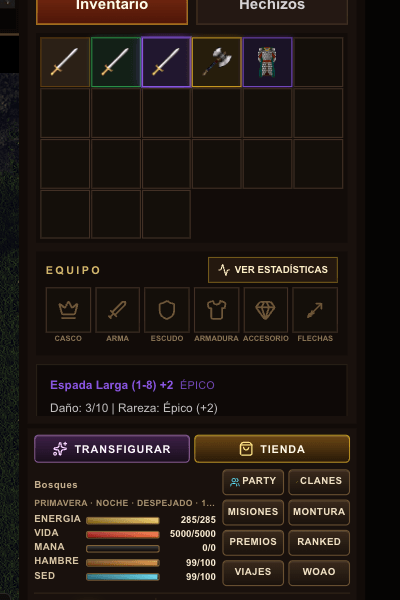
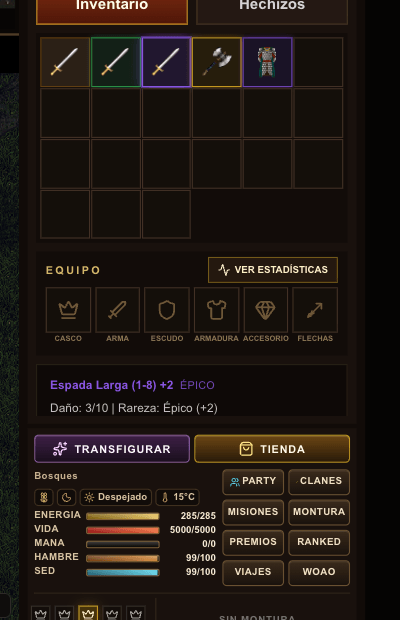
Panel: clima en una sola fila para no achicar el detalle del ítem
Los chips en dos filas hacían crecer la columna y, como el panel tiene alto
fijo, el detalle del ítem perdía su segunda línea (daño y rareza). Ahora van
en una fila: estación y momento del día con ícono (el nombre en el título y
para lectores de pantalla) y clima y temperatura con texto. El bloque vuelve
a medir menos que la grilla de botones, como antes. Capturas actualizadas.

diff --git a/frontend/components/InventoryFloatingPanel.tsx b/frontend/components/InventoryFloatingPanel.tsx
@@ -1244,38 +1244,41 @@ const WEATHER_ICONS: Record<number, LucideIcon> = {
     [WEATHER.niebla]: CloudFog,
 };
 
-type EnvironmentChip = { key: string; icon: LucideIcon | undefined; label: string | undefined };
+type EnvironmentChip = { key: string; icon: LucideIcon | undefined; label: string | undefined; iconOnly?: boolean };
 
 function getEnvironmentChips(environment: EnvironmentState) {
     const chips: EnvironmentChip[] = [
-        { key: "season", icon: SEASON_ICONS[environment.season], label: SEASON_LABELS[environment.season] },
-        { key: "phase", icon: DAY_PHASE_ICONS[environment.dayPhase], label: DAY_PHASE_LABELS[environment.dayPhase] },
+        { key: "season", icon: SEASON_ICONS[environment.season], label: SEASON_LABELS[environment.season], iconOnly: true },
+        { key: "phase", icon: DAY_PHASE_ICONS[environment.dayPhase], label: DAY_PHASE_LABELS[environment.dayPhase], iconOnly: true },
         { key: "weather", icon: WEATHER_ICONS[environment.weather], label: WEATHER_LABELS[environment.weather] },
         { key: "temperature", icon: Thermometer, label: `${environment.temperatureC}°C` },
     ];
     return chips.filter(
-        (chip): chip is { key: string; icon: LucideIcon; label: string } =>
+        (chip): chip is { key: string; icon: LucideIcon; label: string; iconOnly?: boolean } =>
             chip.icon !== undefined && Boolean(chip.label),
     );
 }
 
-// Estación, momento del día, clima y temperatura en chips que bajan de línea si no entran (antes era
-// una sola línea de 8 px que se cortaba en pantallas angostas).
+// Estación, momento del día, clima y temperatura en una fila de chips (antes era una línea de 8 px con
+// truncate que se cortaba en pantallas angostas). Tiene que entrar en una sola fila: el panel tiene alto fijo
+// y si esto crece, el detalle del ítem pierde su segunda línea. Por eso estación y momento del día van solo
+// con ícono (el nombre está en el título y para lectores de pantalla) y clima y temperatura con texto.
 function EnvironmentChips({ environment }: { environment: EnvironmentState }) {
     const chips = getEnvironmentChips(environment);
     return (
         <div
             data-environment-chips="true"
-            className="mb-1 flex flex-wrap gap-1"
+            className="mb-1 flex min-w-0 items-center gap-[3px]"
             title={chips.map((chip) => chip.label).join(" · ")}
         >
-            {chips.map(({ key, icon: Icon, label }) => (
+            {chips.map(({ key, icon: Icon, label, iconOnly }) => (
                 <span
                     key={key}
-                    className="inline-flex items-center gap-1 whitespace-nowrap rounded-sm border border-[#6b5636]/50 bg-black/30 px-1 py-px text-[9px] font-semibold leading-tight text-[#d9c39d]"
+                    title={label}
+                    className={`inline-flex items-center gap-[3px] whitespace-nowrap rounded-sm border border-[#6b5636]/50 bg-black/30 px-[3px] py-[2px] text-[9px] font-semibold leading-none text-[#d9c39d] ${iconOnly ? "shrink-0" : "min-w-0"}`}
                 >
                     <Icon className="h-2.5 w-2.5 shrink-0 text-[#c9a86a]" aria-hidden="true" />
-                    {label}
+                    {iconOnly ? <span className="sr-only">{label}</span> : <span className="truncate">{label}</span>}
                 </span>
             ))}
         </div>
@@ -3977,7 +3980,7 @@ export default function InventoryFloatingPanel({
                                     <button
                                         type="button"
                                         onClick={() => setIsWorldMapOpen(true)}
-                                        className="mb-1 w-full text-left text-[9px] font-semibold tracking-[0.04em] text-[#cbb18e] transition hover:text-amber-100"
+                                        className="mb-1 block w-full truncate text-left text-[9px] font-semibold tracking-[0.04em] text-[#cbb18e] transition hover:text-amber-100"
                                         aria-label="Abrir mapa del mundo"
                                         title={
                                             hud
